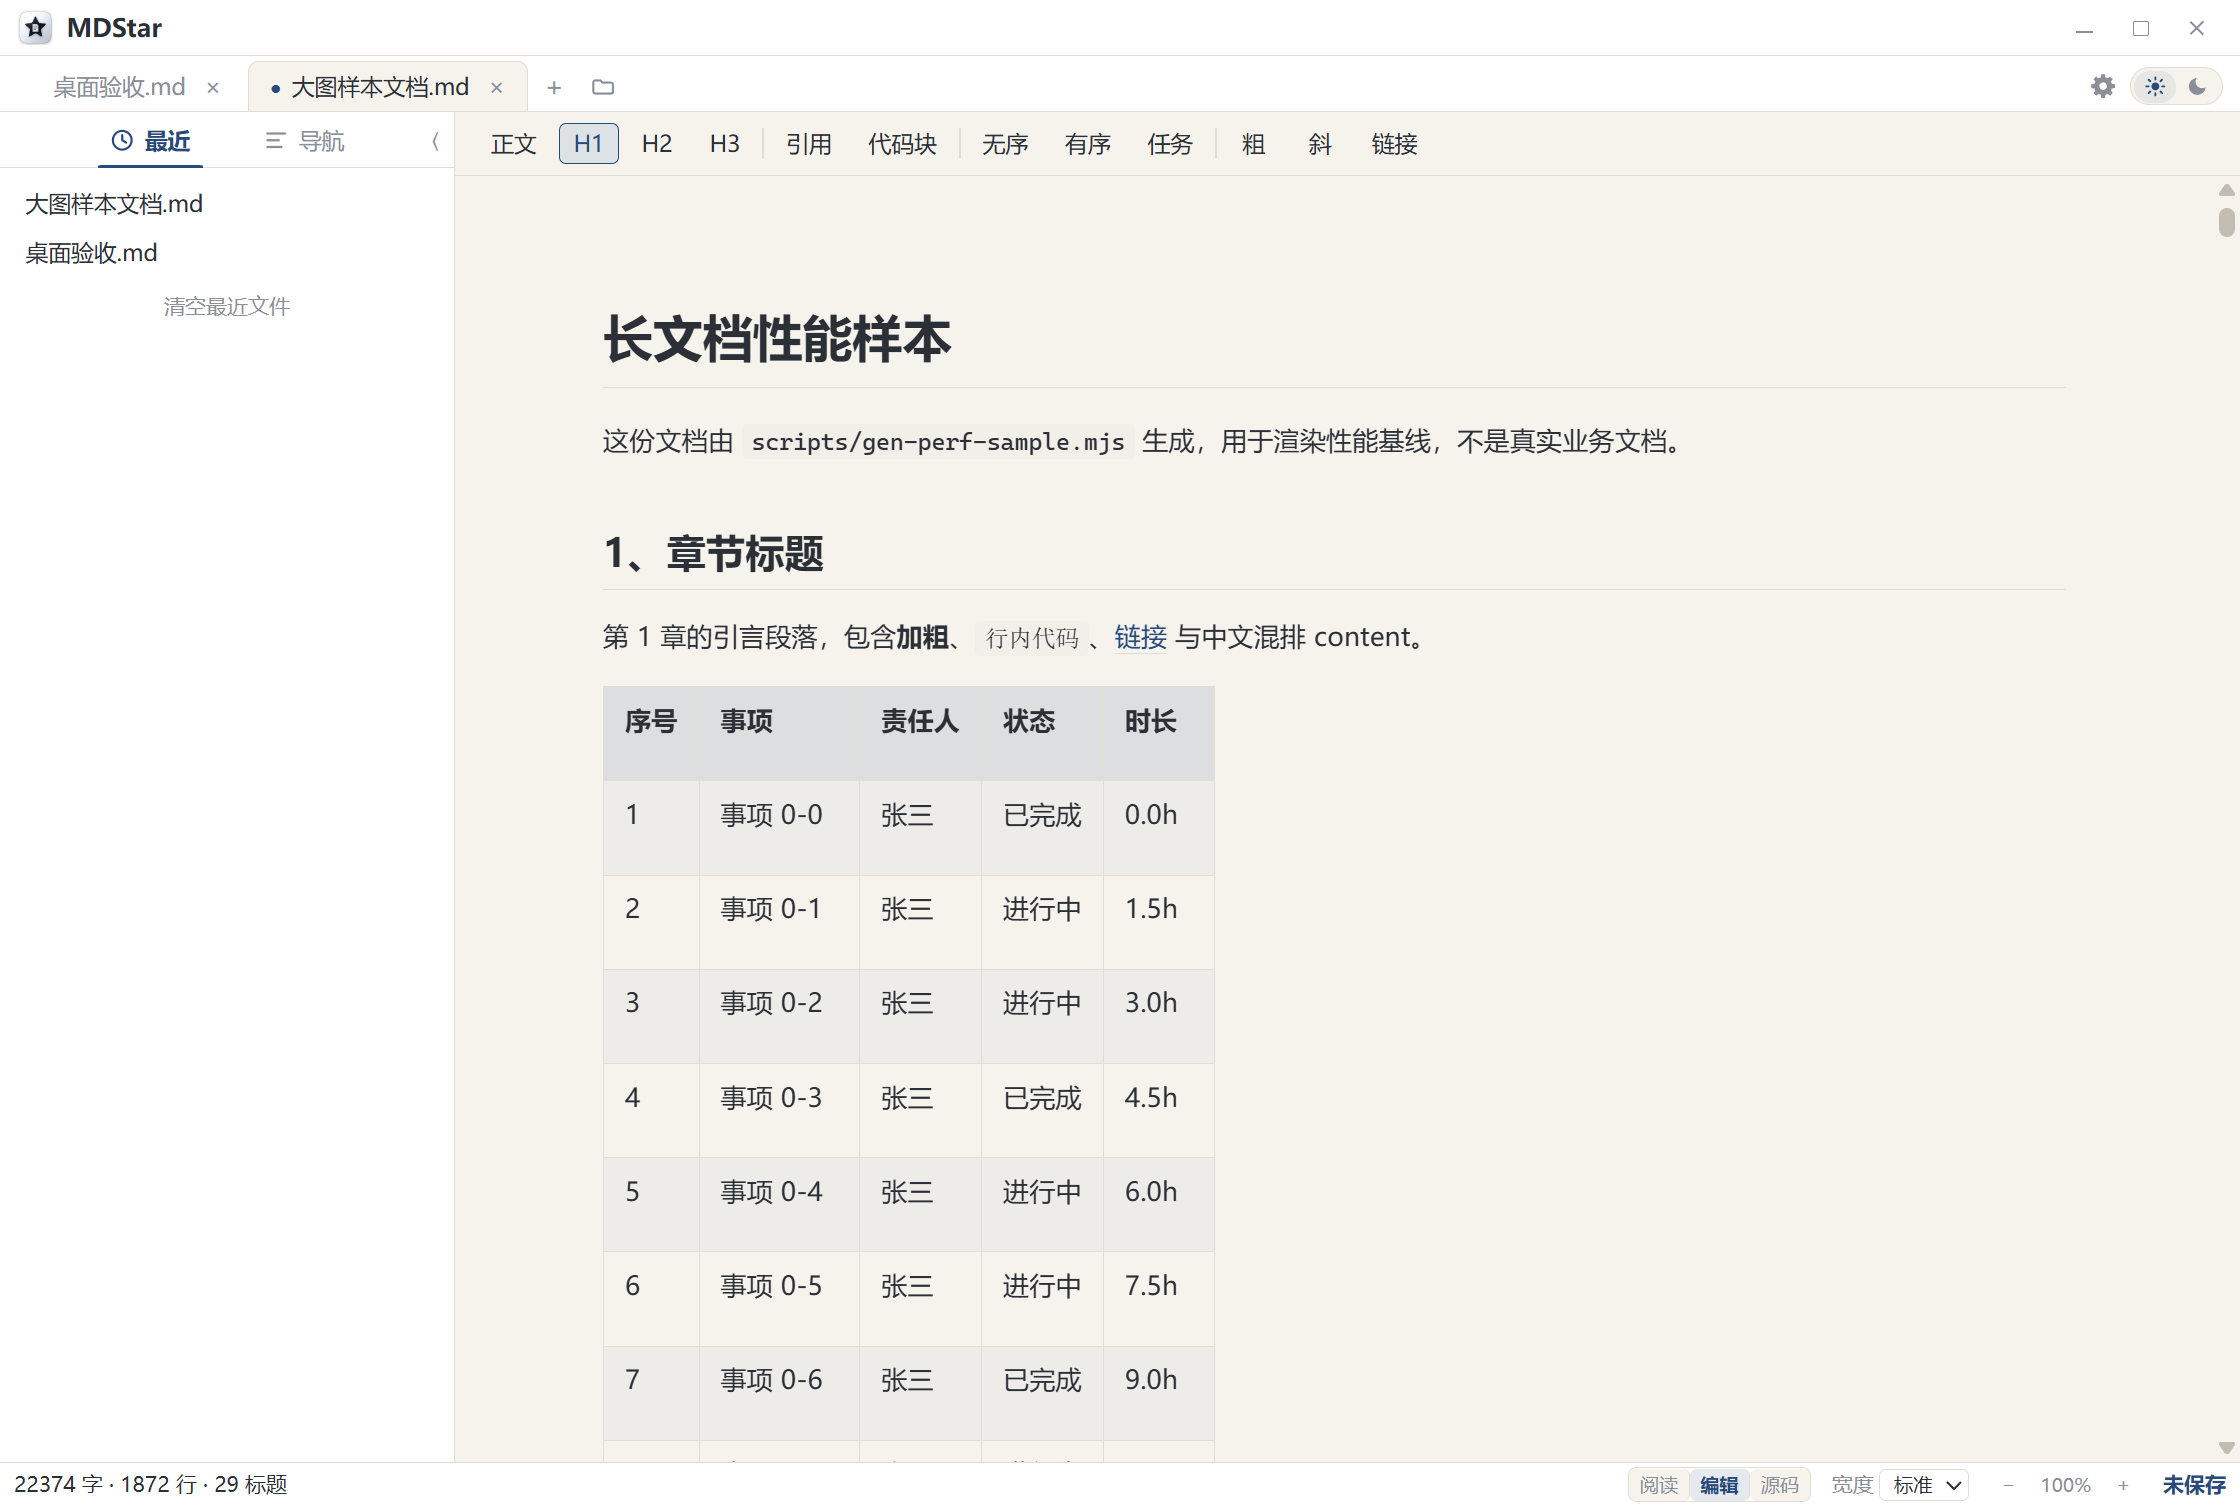
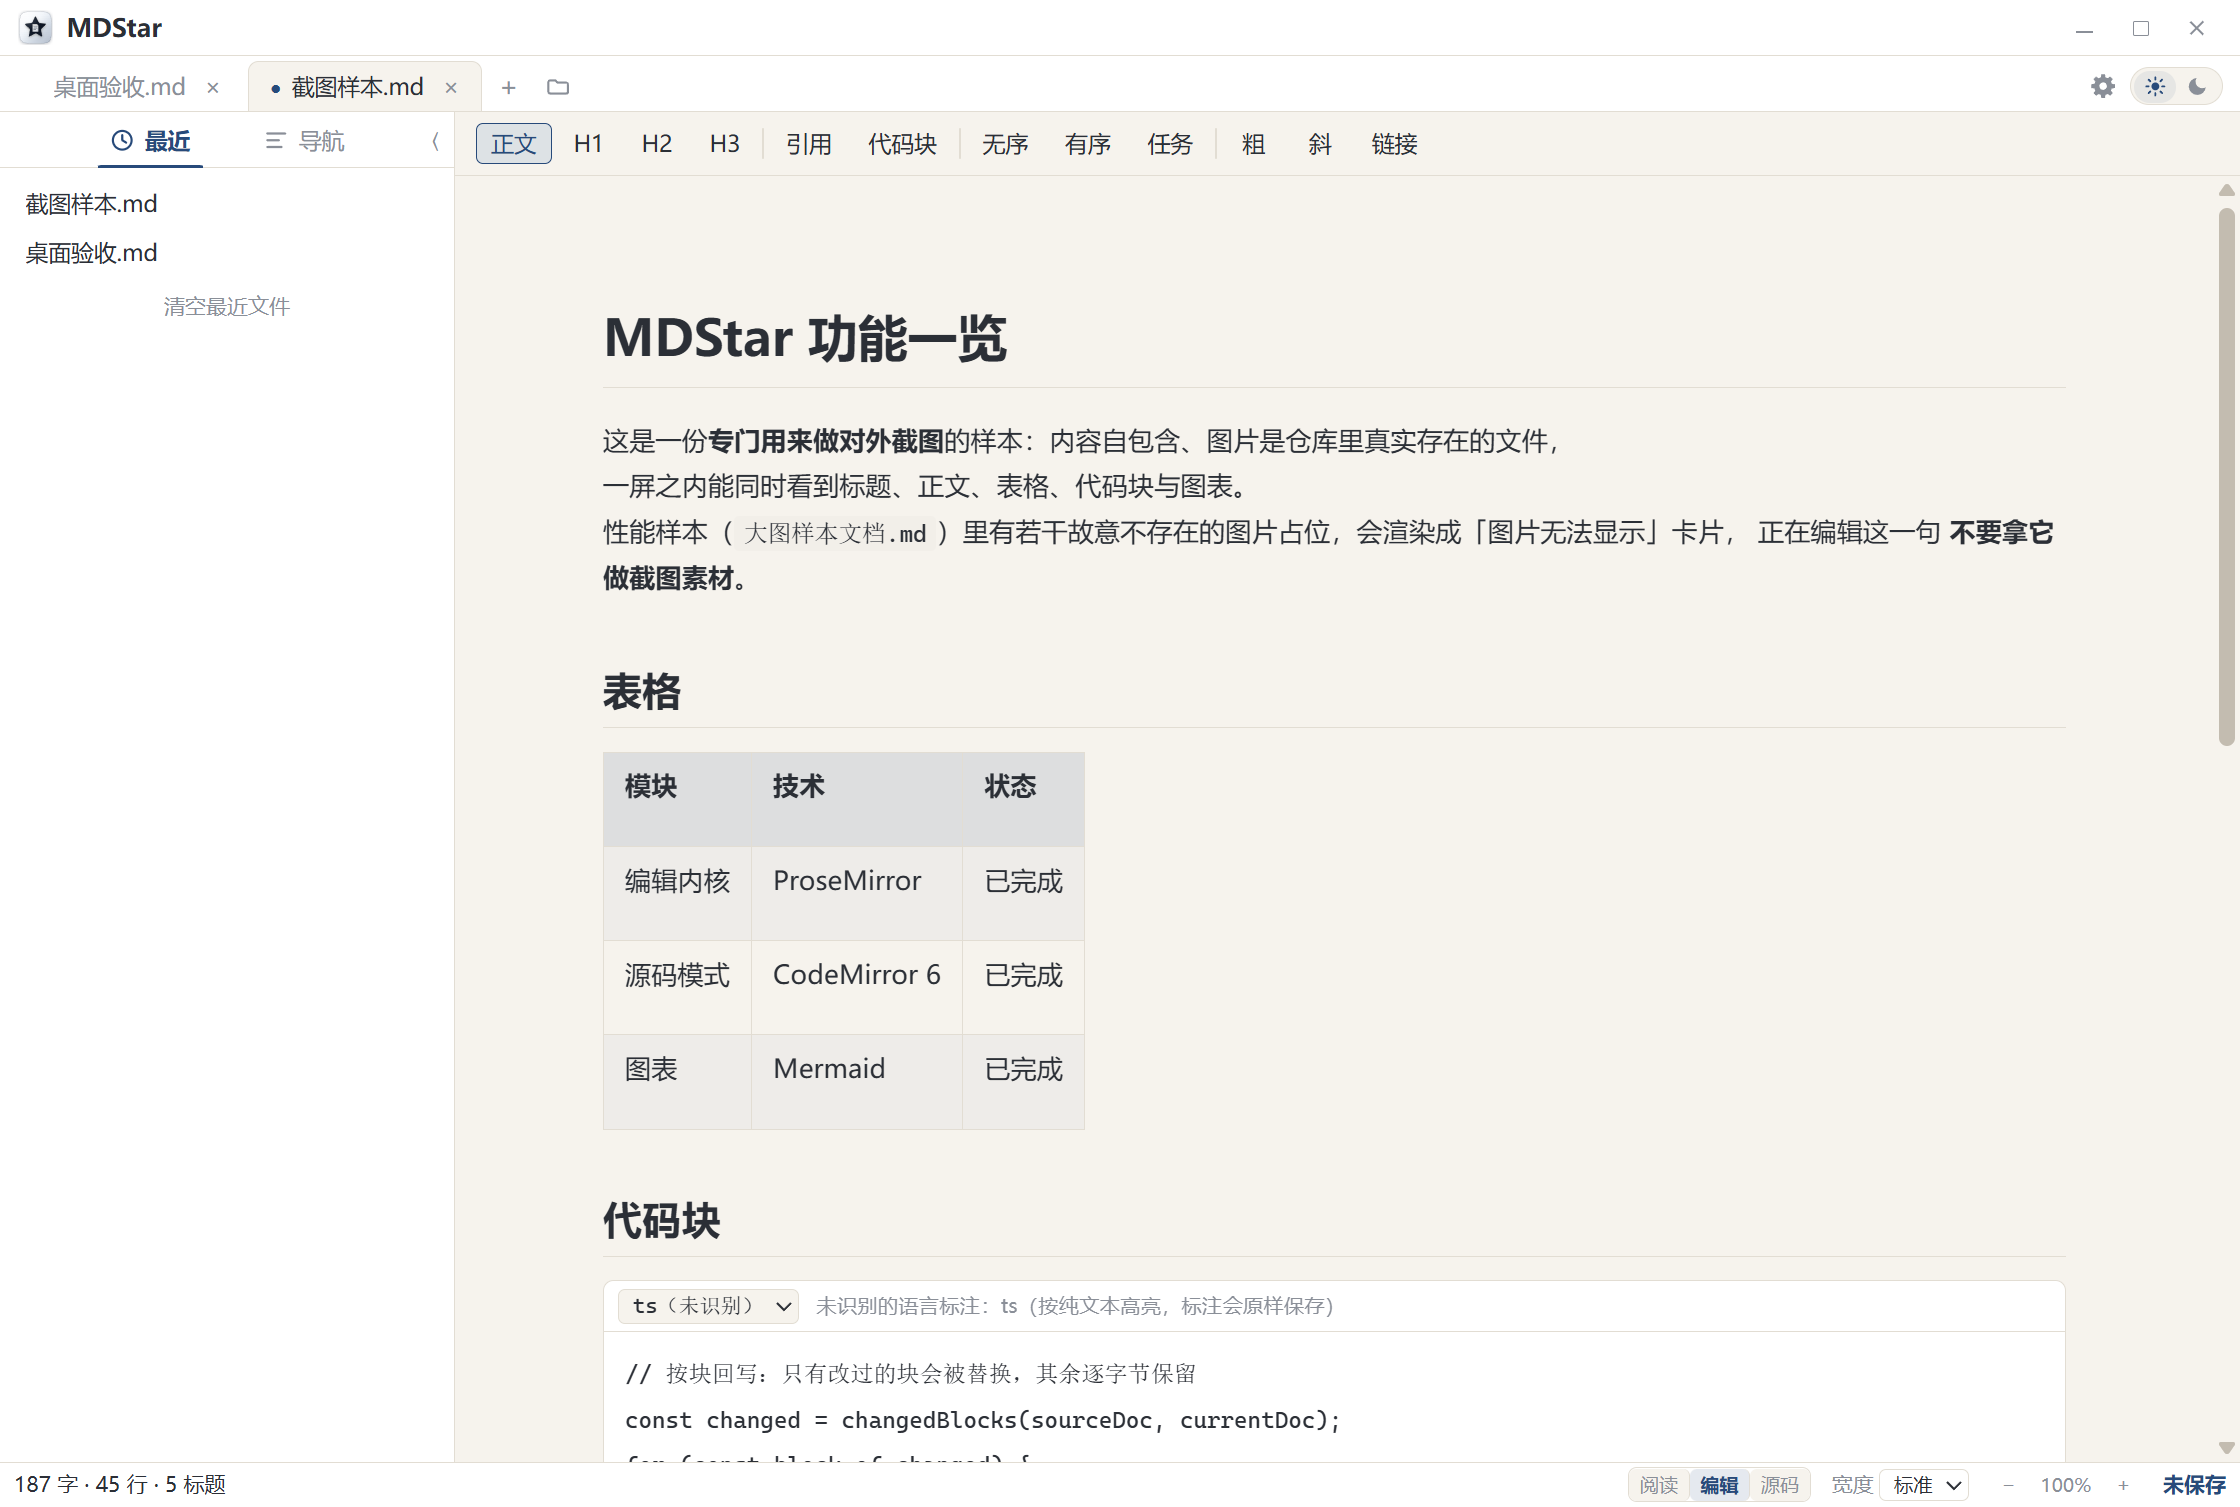
docs: 截图改由仓库内文件提供；编辑档截图带真实输入、第四张换成代码块

diff --git a/samples/截图样本.md b/samples/截图样本.md
@@ -1,0 +1,45 @@
+# MDStar 功能一览
+
+这是一份**专门用来做对外截图**的样本：内容自包含、图片是仓库里真实存在的文件，
+一屏之内能同时看到标题、正文、表格、代码块与图表。
+性能样本（`大图样本文档.md`）里有若干故意不存在的图片占位，会渲染成「图片无法显示」卡片，
+**不要拿它做截图素材**。
+
+## 表格
+
+| 模块 | 技术 | 状态 |
+| --- | --- | --- |
+| 编辑内核 | ProseMirror | 已完成 |
+| 源码模式 | CodeMirror 6 | 已完成 |
+| 图表 | Mermaid | 已完成 |
+
+## 代码块
+
+```ts
+// 按块回写：只有改过的块会被替换，其余逐字节保留
+const changed = changedBlocks(sourceDoc, currentDoc);
+for (const block of changed) {
+  text = patchBlock(text, block);
+}
+save(text); // 未编辑的文档不会走到这一步
+```
+
+## 图片
+
+![架构图](diagrams/架构图.png)
+
+## 图
+
+```mermaid
+flowchart LR
+  打开文件 --> 解析为 mdast
+  解析为 mdast --> 渲染阅读视图
+  解析为 mdast --> 构建编辑文档
+  构建编辑文档 --> 按块回写
+  按块回写 --> 保存到磁盘
+```
+
+> 引用块与*行内标记*、`行内代码`、[链接](https://example.com) 混排，用于展示编辑态的排版。
+
+- [x] 逐字节保真的按块回写
+- [ ] 视口化（长文档性能，评估中）

diff --git a/README.en.md b/README.en.md
@@ -12,13 +12,13 @@ Built from scratch, runs fully offline in a single executable.
 
 > UI screenshots are in Chinese; an English interface is on the roadmap.
 
-| Reading | Editing | Mermaid | Tables & code |
+| Reading | Editing | Mermaid | Code block |
 | --- | --- | --- | --- |
-| <img src="https://github.com/user-attachments/assets/3e854711-076c-4f9d-a7b8-051fe2c876f3" alt="reading" width="260"> | <img src="https://github.com/user-attachments/assets/29b2b492-b974-4be7-9681-970449243ae9" alt="editing" width="260"> | <img src="https://github.com/user-attachments/assets/fca441ac-ce8c-4bf7-a29c-bff2b9ffbe89" alt="mermaid" width="260"> | <img src="https://github.com/user-attachments/assets/512501a6-1f88-4c4e-8ee9-af73e12c589b" alt="tables and code" width="260"> |
+| <img src="docs/screenshots/01-read.png" alt="reading" width="260"> | <img src="docs/screenshots/02-edit.png" alt="editing" width="260"> | <img src="docs/screenshots/03-mermaid.png" alt="mermaid" width="260"> | <img src="docs/screenshots/04-code-block.png" alt="code block" width="260"> |
 
 **Light and dark themes** (the sun / moon toggle right of the gear in the tab bar):
 
-<img src="https://github.com/user-attachments/assets/a1284159-952d-4876-8ebc-9b285a8b14fe" alt="theme switch" width="760">
+<img src="docs/screenshots/theme-toggle.gif" alt="theme switch" width="760">
 
 ## Features
 

diff --git a/README.md b/README.md
@@ -10,13 +10,13 @@
 
 ## 截图
 
-| 阅读模式 | 编辑模式 | Mermaid 渲染 | 表格与代码块 |
+| 阅读模式 | 编辑模式 | Mermaid 渲染 | 代码块 |
 | --- | --- | --- | --- |
-| <img src="https://github.com/user-attachments/assets/3e854711-076c-4f9d-a7b8-051fe2c876f3" alt="01-read" width="260"> | <img src="https://github.com/user-attachments/assets/29b2b492-b974-4be7-9681-970449243ae9" alt="02-edit" width="260"> | <img src="https://github.com/user-attachments/assets/fca441ac-ce8c-4bf7-a29c-bff2b9ffbe89" alt="03-mermaid" width="260"> | <img src="https://github.com/user-attachments/assets/512501a6-1f88-4c4e-8ee9-af73e12c589b" alt="04-table-code" width="260"> |
+| <img src="docs/screenshots/01-read.png" alt="01-read" width="260"> | <img src="docs/screenshots/02-edit.png" alt="02-edit" width="260"> | <img src="docs/screenshots/03-mermaid.png" alt="03-mermaid" width="260"> | <img src="docs/screenshots/04-code-block.png" alt="04-code-block" width="260"> |
 
 **深浅两档主题**（点标签栏齿轮右侧那颗日/月开关）：
 
-<img src="https://github.com/user-attachments/assets/a1284159-952d-4876-8ebc-9b285a8b14fe" alt="深浅主题切换" width="760">
+<img src="docs/screenshots/theme-toggle.gif" alt="深浅主题切换" width="760">
 
 ## 功能清单
 
